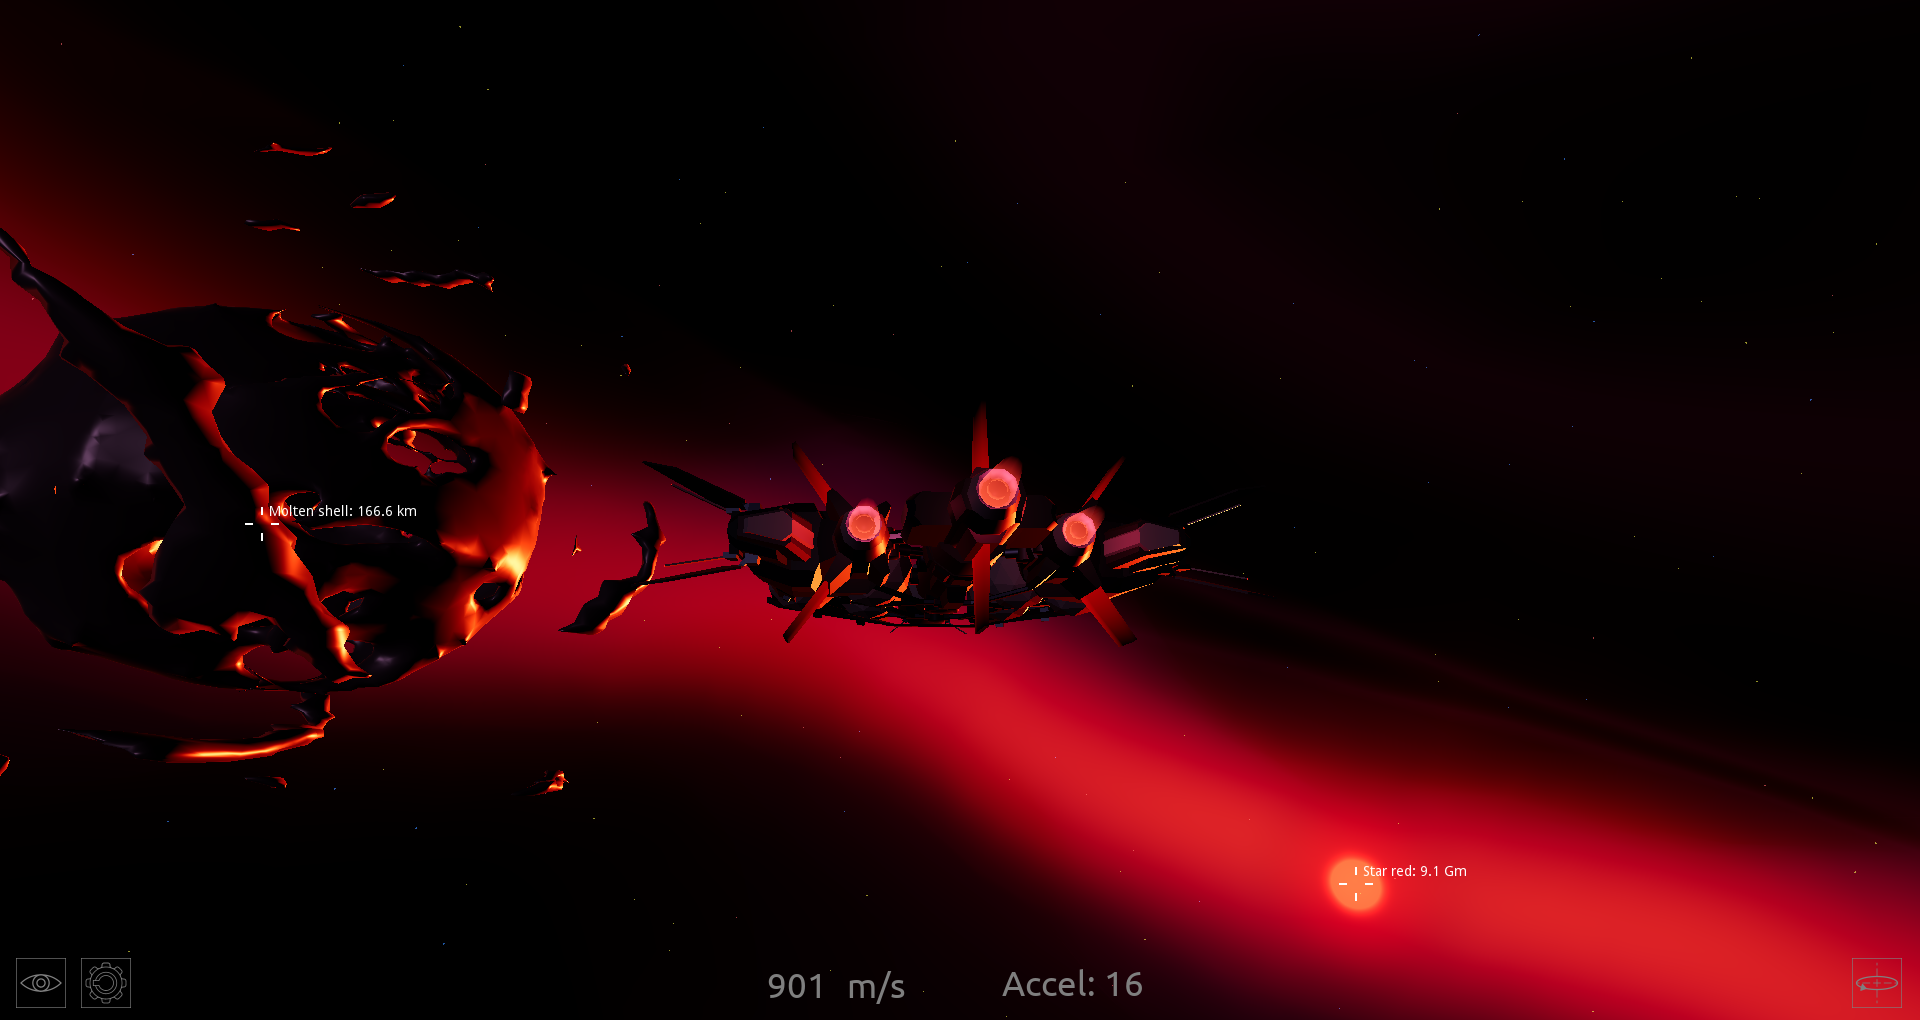
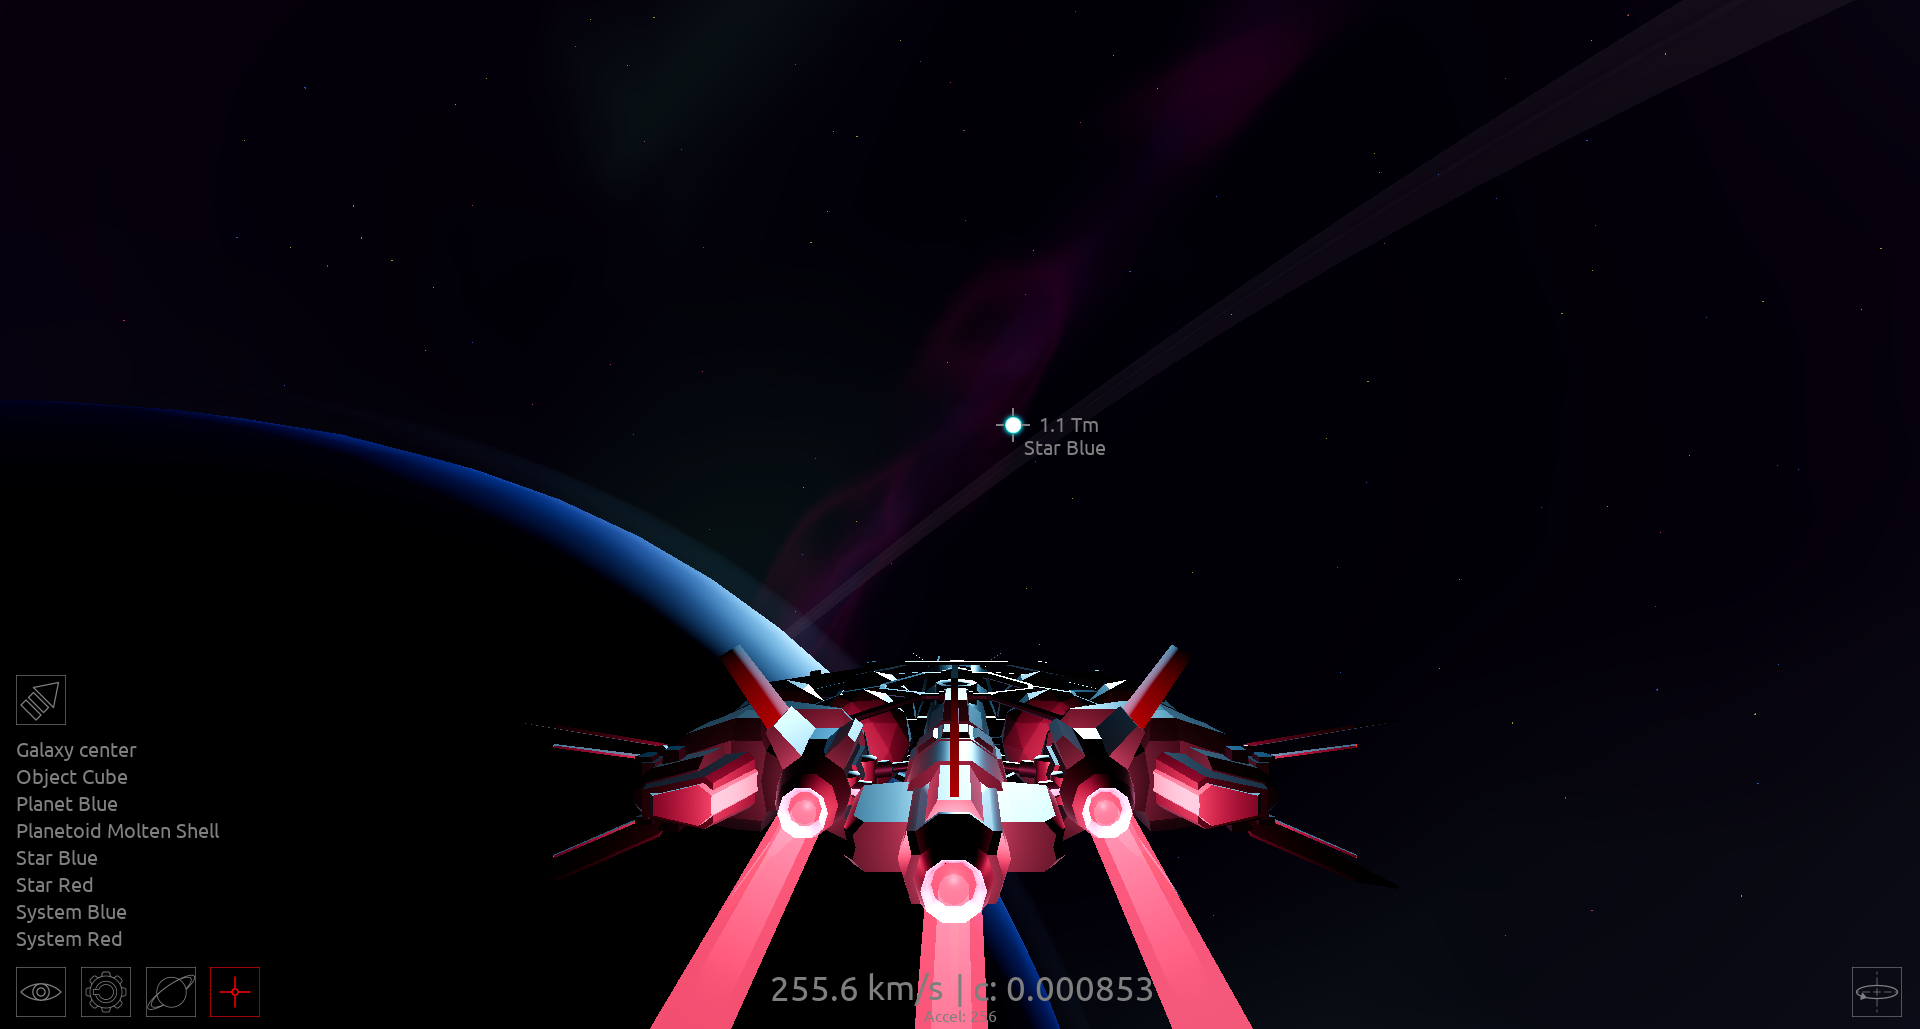
NEW: Autopilot UI for touchscreen, changed warp visuals.

diff --git a/README.md b/README.md
@@ -2,12 +2,15 @@
 ![Progress][Progress]
 
 A space game inspired by Freelancer, Orbiter and EVE Online. 
-Developed in Godot 3 for desktop and mobile (Android) platforms.
+Developed in Godot 3 for desktop (Windows, Linux) and mobile (Android) platforms.
 
 [Progress]: Doc/Images/Progress.png "Progress"
 
 ## Recent changelog
-### Since v0.7-alpha
+### Since v0.8-alpha (current)
+- A new release!
+
+### Since v0.7-alpha (previous)
 - A new star system!
 - Switched to full-scale stellar bodies (stars and planets are up to scale now).
 - Using `meters` instead of `units` now. Updated distance prefixes according to 
@@ -33,6 +36,7 @@ accelerate rapidly.
 - Fixed lag due to complex collision trimesh.
 - Autopilot added.
 - New UI elements.
+- Some tweaks to superliminal velocity effects.
 
 ## TODO list:
 - Make primitive building blocks with simple collision shapes (performace).
@@ -47,8 +51,11 @@ accelerate rapidly.
 - Make autopilot detect obstacles.
 - Add star sprites as LOD2.
 - Improve star shaders?
-- Prevent camera orbiting from interrupting autopilot.
+- Prevent camera orbiting from interrupting autopilot and warp effect adjustments.
 - Disable CD after some velocity threshold.
+- Make "Orient only" autopilot feature.
+- Nebula LODS.
+- Procedural skybox distant light (to get rid of static effect due to warp).
 
 ## How to
 You can download one of the pre-compiled binary in the [releases](https://github.com/roalyr/GDTLancer/releases) section.
